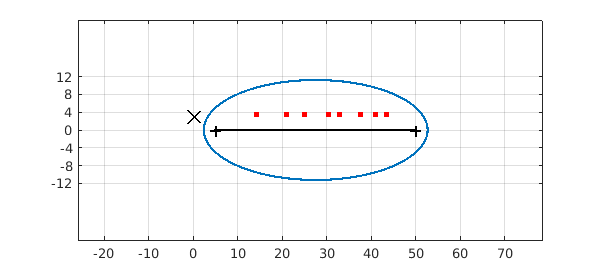
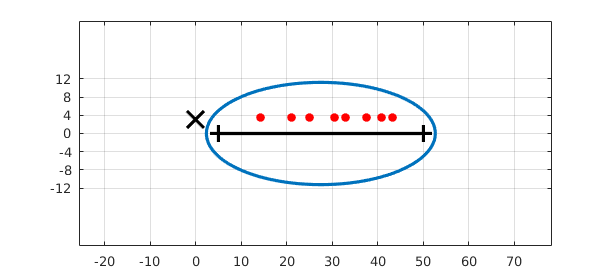
Republish example complex/ZetaZeros to anti-alias the graphics.

Changed region(s): [[0.09, 0.0593, 0.9, 0.9778], [0.54, 0.3852, 0.66, 0.4444], [0.42, 0.4148, 0.51, 0.4444]]

diff --git a/examples/complex/img/ZetaZeros.html b/examples/complex/img/ZetaZeros.html
@@ -24,7 +24,7 @@ exact =
 <pre class="mcode-input">f = chebfun(@(t) zeta(s(t)),[5 50],'vectorize')</pre><pre class="mcode-output">f =
    chebfun column (1 smooth piece)
        interval       length     endpoint values  
-[       5,      50]       75    complex values 
+[       5,      50]       75     complex values 
 vertical scale = 1.1 
 </pre>Here is the Chebfun ellipse of $f$ (see Chapter 8 of [Trefethen 2013]) together with the numerically computed roots of $f$ in in the ellipse.  A black X is also marked to show the pole of the zeta function.
 
@@ -58,13 +58,15 @@ ft = f(t);
 plot([imag(ft) real(ft)])
 title('Real and imaginary parts of zeta(s) along critical line')
 hold on, plot(real(zeros_t),imag(zeros_t-3.5i),'.k',MS,15)
-grid on, hold off</pre><img src="img/ZetaZeros_02.png" class="figure" alt=""/>
+grid on, hold off</pre><pre class="mcode-output">Warning: F should be real valued to construct G(F).
+Results may be inaccurate if G is not a polynomial. 
+</pre><img src="img/ZetaZeros_02.png" class="figure" alt=""/>
 
 The mathematics of what we have done in this Example is nothing more than polynomial approximation in the complex plane, which worked well because we stayed away from the pole of $\zeta(s)$ at $s=1$.  Near $s=1$, one could still use polynomial approximation by working with $\zeta(s)/(s-1)$, which is an entire function (i.e., analytic for all values of $s$).  Alternatively, a more powerful approach to numerical analytic continuation is to use rational approximations, which can be computed in Chebfun with the `ratinterp` command.  For the zeta function with its single pole, rational approximations of type $(m,1)$ ($m$ zeros, 1 pole) may be sufficient to get good information.  More generally one uses approximation of type $(m,n)$, typically with $n$ rather small. See Chapters 23, 26 and 28 of [Trefethen 2013].
 
 Total time taken by this example:
 
-<pre class="mcode-input">toc</pre><pre class="mcode-output">Elapsed time is 3.360643 seconds.
+<pre class="mcode-input">toc</pre><pre class="mcode-output">Elapsed time is 3.196159 seconds.
 </pre>Reference:
 
 1. L. N. Trefethen, _Approximation Theory and Approximation Practice_, SIAM, 2013.

diff --git a/examples/complex/ZetaZeros.html b/examples/complex/ZetaZeros.html
@@ -85,7 +85,7 @@ exact =
 <pre class="mcode-output">f =
    chebfun column (1 smooth piece)
        interval       length     endpoint values  
-[       5,      50]       75    complex values 
+[       5,      50]       75     complex values 
 vertical scale = 1.1 
 </pre>
 
@@ -125,12 +125,16 @@ title('Real and imaginary parts of zeta(s) along critical line')
 hold on, plot(real(zeros_t),imag(zeros_t-3.5i),'.k',MS,15)
 grid on, hold off</pre>
 
+<pre class="mcode-output">Warning: F should be real valued to construct G(F).
+Results may be inaccurate if G is not a polynomial. 
+</pre>
+
 <p><img src="img/ZetaZeros_02.png" class="figure" alt=""/></p>
 <p>The mathematics of what we have done in this Example is nothing more than polynomial approximation in the complex plane, which worked well because we stayed away from the pole of $\zeta(s)$ at $s=1$.  Near $s=1$, one could still use polynomial approximation by working with $\zeta(s)/(s-1)$, which is an entire function (i.e., analytic for all values of $s$).  Alternatively, a more powerful approach to numerical analytic continuation is to use rational approximations, which can be computed in Chebfun with the <code>ratinterp</code> command.  For the zeta function with its single pole, rational approximations of type $(m,1)$ ($m$ zeros, 1 pole) may be sufficient to get good information.  More generally one uses approximation of type $(m,n)$, typically with $n$ rather small. See Chapters 23, 26 and 28 of [Trefethen 2013].</p>
 <p>Total time taken by this example:</p>
 <pre class="mcode-input">toc</pre>
 
-<pre class="mcode-output">Elapsed time is 3.360643 seconds.
+<pre class="mcode-output">Elapsed time is 3.196159 seconds.
 </pre>
 
 <p>Reference:</p>

diff --git a/index.html b/index.html
@@ -208,5 +208,5 @@ plot(minx(1),minx(2),'.w')
     <script type="text/javascript" src="/js/config.js"></script>
     <script type="text/javascript" src="/js/jquery.flexslider-min.js"></script>
   </body>
-<!-- Compiled on Friday, 05 February 2016 at 12:13. -->
+<!-- Compiled on Friday, 05 February 2016 at 13:08. -->
 </html>
